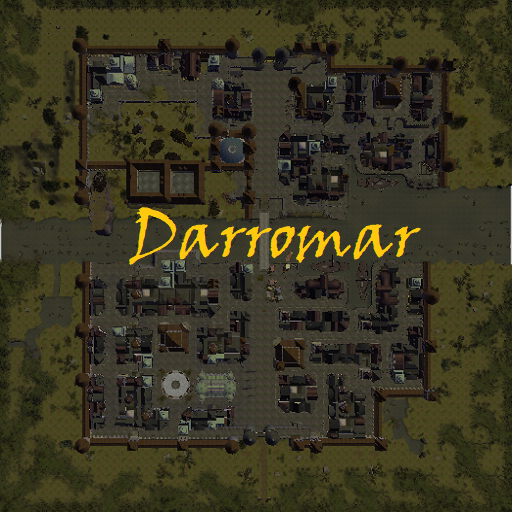
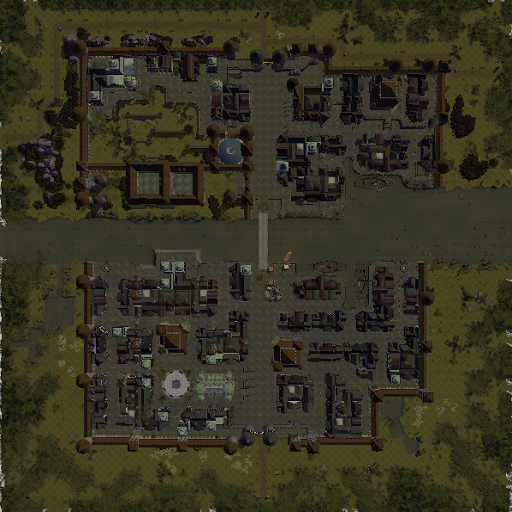
210414

diff --git a/common.js b/common.js
@@ -13,20 +13,20 @@ var map = {
     csize: 256,
     csize_noscr: 100,
     layers: [[
-        //1              2                3              4              5              6                  7                 8                  9                  10                 11                 12                13                 14                 15                 16                17               18                19                 20                21             22             23             24             25             26                           
-        '0map',          '0map',          '0map',        '0map',        '0map',        '0map',            '0map',           '0map',            '0map',            '0map',            '0map',            '0map',           '0map',            '0map',            '0map',            '0map',           '0map',          '0map',           '0map',            '0map',           '0map',        '0map',        '0map',        '0map',        '0map',        '0map',        
-        '0map',          '0map',          '0map',        '0map',        '0map',        '0map',            '0map',           '0map',            '0map',            '0map',            '0map',            '0map',           '0map',            '0map',            '0map',            '0map',           '0map',          '0map',           '0map',            '0map',           '0map',        '0map',        'TorArcanaFw', 'TorArcana',   'TorArcanaFe', '0map',     
-        't_zazesspur_nw','t_zazesspur_ne','0map',        '0map',        '0map',        '0map',            '0map',           '0map',            '0map',            '0map',            '0map',            '0map',           '0map',            '0map',            '0map',            '0map',           '0map',          '0map',           '0map',            '0map',           '0map',        '0map',        'TorArcanaFsw','TorArcanaFs', 'TorArcanaFse','0map',   
-        't_zazesspur_sw','t_zazesspur_se','t_venazir_ne','SulZaz2',     '0map',        '0map',            't_tethyrcast_nw','t_tethyrcast_n',  't_tethyrcast_ne', 'SuldusBard1',     '0map',            'IthmonSulW',     't_hostim_quay',   'IthmonSulE',      'IthmonSulE1',     'IthmonSulE2',    'GrannoxFw',     'GrannoxFe',      'Lhestyn',         'FreelmanseFw',   'FreelmanseFe','0map',        'VarythPlainW','VarythPlainC','0map',        '0map',
-        't_venazir_sw',  't_venazir_s',   't_venazir_se','SulZaz3',     'SulZaz4',     'SulZaz5',         't_tethyrcast_w', 't_tethyrcast',    't_tethyrcast_e',  'SuldusBard2',     'SuldusBard3',     'SuldusBard4',    't_hostim',        '0map',            '0map',            '0map',           '0map',          'LhestynFsw',     'LhestynFs',       'LhestynFse',     'RvrShrHillN', 'RvrShrHillNE','VarythHillNW','0map',        '0map',        '0map', 
-        '0map',          '0map',          'OldKingRoad1','OldKingRoad2','OldKingRoad3','OldKingRoad4',    't_tethyrcast_sw','t_tethyrcast_s',  't_tethyrcast_se', '0map',            '0map',            '0map',           't_hostim_road',   '0map',            '0map',            '0map',           'QonsirFw',      'QonsirFe',       'LhestynRd',       'RvrShrHillW',    'RvrShrHill',  'StOstus',     'VarythHillSW','0map',        '0map',        '0map', 
-        '0map',          '0map',          '0map',        '0map',        '0map',        't_sahark_crossrd','t_saharkhan',    't_bardshy_itr_1', 't_bardshyr_lorik','t_bardshy_itr_3', 't_bardshy_itr_4', 'Ithmon_WCatFrm1','Ithmon_WCatFrm2', 'Ithmon_LorCrsRd', 'Ithmon_IthRd1',   'Ithmon_IthRd2',  'RvrShr_IthalRd','t_crownfarms_nw','t_crownfarms_n',  't_crownfarms_ne','RvrShrHillS', 'RvrShrHillSE','0map',        '0map',        '0map',        '0map', 
-        '0map',          '0map',          '0map',        '0map',        '0map',        '0map',            '0map',           '0map',            '0map',            '0map',            '0map',            '0map',           't_ithmon_farm_nw','t_ithmon_farm_n', 't_ithmon_farm_ne','t_loransewood_n','RvrShr_IthFrmW','RvrShr_IthFrmE', 't_darromar',      '0map',           '0map',        '0map',        '0map',        '0map',        '0map',        '0map', 
-        '0map',          '0map',          '0map',        '0map',        '0map',        '0map',            '0map',           '0map',            '0map',            '0map',            '0map',            '0map',           't_ithmon_farm_w', 't_ithmon_loranse','t_ithmon_farm_e', 't_loransewood_s','t_ruba',        't_clov_fld_nw',  't_clov_fld_itr_n','0map',           '0map',        '0map',        '0map',        '0map',        '0map',        '0map', 
-        '0map',          '0map',          '0map',        '0map',        '0map',        '0map',            '0map',           '0map',            '0map',            '0map',            '0map',            '0map',           '0map',            '0map',            '0map',            '0map',           '0map',          '0map',           't_clov_fld_itr_s','0map',           '0map',        '0map',        '0map',        '0map',        '0map',        '0map',
-        '0map',          '0map',          '0map',        '0map',        '0map',        't_krennasar',     '0map',           '0map',            '0map',            '0map',            '0map',            '0map',           '0map',            '0map',            '0map',            '0map',           '0map',          '0map',           '0map',            '0map',           '0map',        '0map',        '0map',        '0map',        '0map',        '0map',
-        '0map',          '0map',          '0map',        '0map',        '0map',        '0map',            '0map',           '0map',            '0map',            '0map',            '0map',            '0map',           '0map',            '0map',            '0map',            '0map',           '0map',          '0map',           '0map',            '0map',           '0map',        '0map',        '0map',        '0map',        '0map',        '0map',
-        '0map',          '0map',          '0map',        '0map',        '0map',        '0map',            '0map',           '0map',            '0map',            '0map',            '0map',            '0map',           '0map',            '0map',            '0map',            '0map',           '0map',          '0map',           '0map',            '0map',           '0map',        '0map',        '0map',        '0map',        '0map',        '0map'                        
+        //1              2                3              4              5              6                  7                 8                  9                  10                 11                 12                 13                 14                 15                 16                 17                 18                 19                 20                21             22             23             24             25             26                           
+        '0map',          '0map',          '0map',        '0map',        '0map',        '0map',            '0map',           '0map',            '0map',            '0map',            '0map',            '0map',            '0map',            '0map',            '0map',            '0map',            '0map',            '0map',            '0map',            '0map',           '0map',        '0map',        '0map',        '0map',        '0map',        '0map',        
+        '0map',          '0map',          '0map',        '0map',        '0map',        '0map',            '0map',           '0map',            '0map',            '0map',            '0map',            '0map',            '0map',            '0map',            '0map',            '0map',            '0map',            '0map',            '0map',            '0map',           '0map',        '0map',        'TorArcanaFw', 'TorArcana',   'TorArcanaFe', '0map',     
+        't_zazesspur_nw','t_zazesspur_ne','0map',        '0map',        '0map',        '0map',            '0map',           '0map',            '0map',            '0map',            '0map',            '0map',            '0map',            '0map',            '0map',            '0map',            '0map',            '0map',            '0map',            '0map',           '0map',        '0map',        'TorArcanaFsw','TorArcanaFs', 'TorArcanaFse','0map',   
+        't_zazesspur_sw','t_zazesspur_se','t_venazir_ne','SulZaz2',     '0map',        '0map',            't_tethyrcast_nw','t_tethyrcast_n',  't_tethyrcast_ne', 'SuldusBard1',     '0map',            'IthmonSulW',      't_hostim_quay',   'IthmonSulE',      'IthmonSulE1',     'IthmonSulE2',     'GrannoxFw',       'GrannoxFe',       'Lhestyn',         'FreelmanseFw',   'FreelmanseFe','0map',        'VarythPlainW','VarythPlainC','0map',        '0map',
+        't_venazir_sw',  't_venazir_s',   't_venazir_se','SulZaz3',     'SulZaz4',     'SulZaz5',         't_tethyrcast_w', 't_tethyrcast',    't_tethyrcast_e',  'SuldusBard2',     'SuldusBard3',     'SuldusBard4',     't_hostim',        '0map',            '0map',            '0map',            '0map',            'LhestynFsw',      'LhestynFs',       'LhestynFse',     'RvrShrHillN', 'RvrShrHillNE','VarythHillNW','0map',        '0map',        '0map', 
+        '0map',          '0map',          'OldKingRoad1','OldKingRoad2','OldKingRoad3','OldKingRoad4',    't_tethyrcast_sw','t_tethyrcast_s',  't_tethyrcast_se', '0map',            '0map',            '0map',            't_hostim_road',   '0map',            '0map',            '0map',            'QonsirFw',        'QonsirFe',        'LhestynRd',       'RvrShrHillW',    'RvrShrHill',  'StOstus',     'VarythHillSW','0map',        '0map',        '0map', 
+        '0map',          '0map',          '0map',        '0map',        '0map',        't_sahark_crossrd','t_saharkhan',    't_bardshy_itr_1', 't_bardshyr_lorik','t_bardshy_itr_3', 't_bardshy_itr_4', 't_ithmon_ithr_w1','t_ithmon_ithr_w2','t_ithmon_lorcros','t_ithmon_ithr_e1','t_ithmon_ithr_e2','RvrShr_IthalRd',  't_crownfarms_nw', 't_crownfarms_n',  't_crownfarms_ne','RvrShrHillS', 'RvrShrHillSE','0map',        '0map',        '0map',        '0map', 
+        '0map',          '0map',          '0map',        '0map',        '0map',        '0map',            '0map',           '0map',            '0map',            '0map',            '0map',            '0map',            't_ithmon_farm_nw','t_ithmon_farm_n', 't_ithmon_farm_ne','t_loransewood_n', 't_crownfarms_iw2','t_crownfarms_iw1','t_darromar',      '0map',           '0map',        '0map',        '0map',        '0map',        '0map',        '0map', 
+        '0map',          '0map',          '0map',        '0map',        '0map',        '0map',            '0map',           '0map',            '0map',            '0map',            '0map',            '0map',            't_ithmon_farm_w', 't_ithmon_loranse','t_ithmon_farm_e', 't_loransewood_s', 't_ruba',          't_clov_fld_nw',   't_clov_fld_itr_n','0map',           '0map',        '0map',        '0map',        '0map',        '0map',        '0map', 
+        '0map',          '0map',          '0map',        '0map',        '0map',        '0map',            '0map',           '0map',            '0map',            '0map',            '0map',            '0map',            '0map',            '0map',            '0map',            '0map',            '0map',            '0map',            't_clov_fld_itr_s','0map',           '0map',        '0map',        '0map',        '0map',        '0map',        '0map',
+        '0map',          '0map',          '0map',        '0map',        '0map',        't_krennasar',     '0map',           '0map',            '0map',            '0map',            '0map',            '0map',            '0map',            '0map',            '0map',            '0map',            '0map',            '0map',            '0map',            '0map',           '0map',        '0map',        '0map',        '0map',        '0map',        '0map',
+        '0map',          '0map',          '0map',        '0map',        '0map',        '0map',            '0map',           '0map',            '0map',            '0map',            '0map',            '0map',            '0map',            '0map',            '0map',            '0map',            '0map',            '0map',            '0map',            '0map',           '0map',        '0map',        '0map',        '0map',        '0map',        '0map',
+        '0map',          '0map',          '0map',        '0map',        '0map',        '0map',            '0map',           '0map',            '0map',            '0map',            '0map',            '0map',            '0map',            '0map',            '0map',            '0map',            '0map',            '0map',            '0map',            '0map',           '0map',        '0map',        '0map',        '0map',        '0map',        '0map'                        
     ], [
       //                  10                  20  
       //1 2 3 4 5 6 7 8 9   1 2 3 4 5 6 7 8 9   1 2 3 4 5 6
